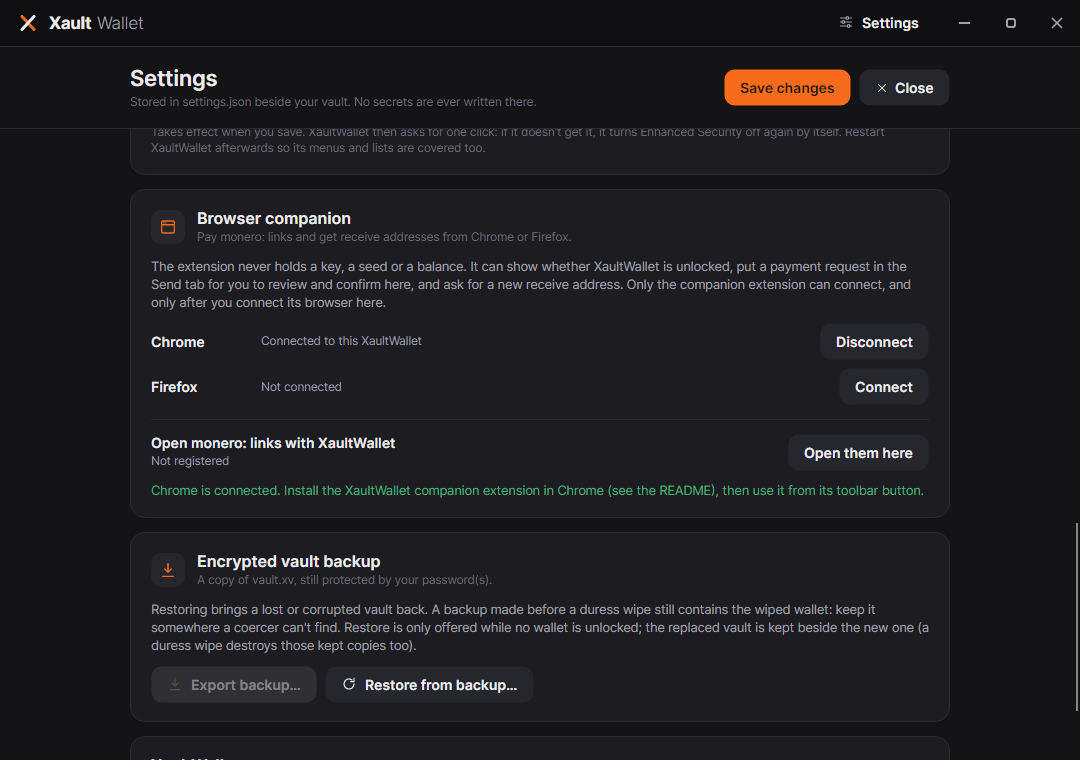
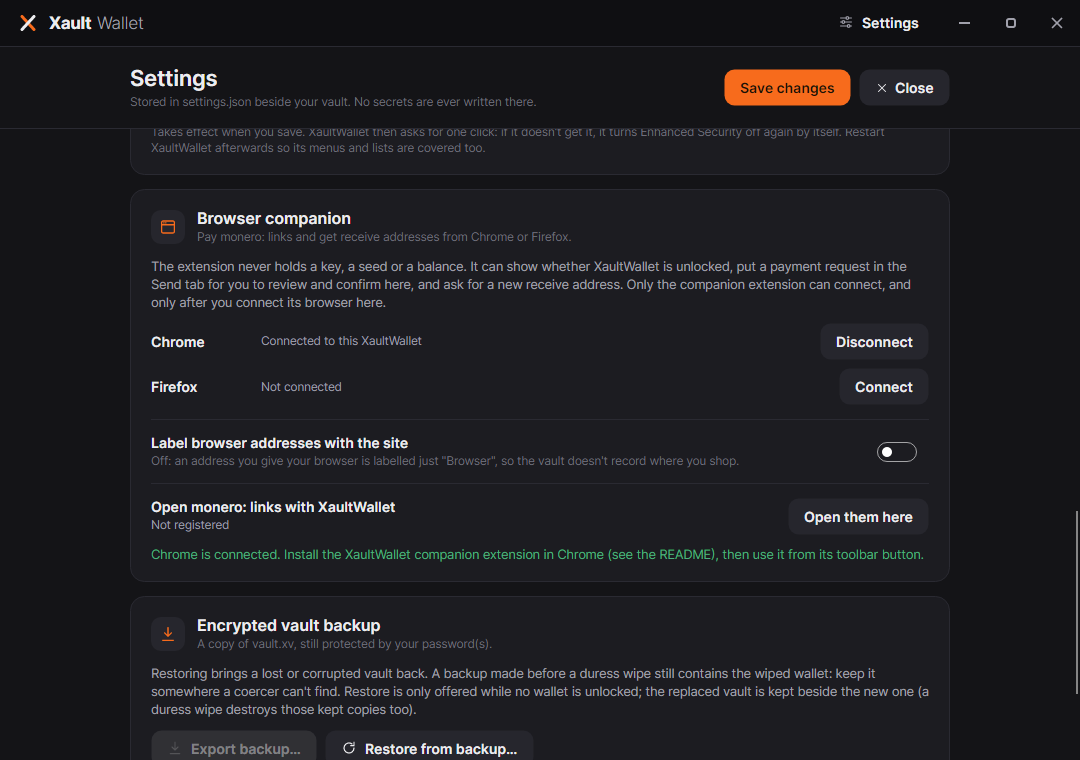
Companion: a receive request brings the window forward; docs match the new flow
A browser's receive request now waits for Give address in the app, so the app comes
forward when it asks (as for a payment request) instead of leaving the button behind
the browser. With Enhanced Security on, other programs can't press it, but the user's
own keyboard, mouse, touchscreen and pen still can: the docs and comments said "only a
real click", which was less than the truth.

README step 4 describes the two-step flow with a screenshot of the ask; the Browser
companion settings screenshot shows the new toggle.

diff --git a/src/XaultWallet.Desktop/ViewModels/MainWindowViewModel.cs b/src/XaultWallet.Desktop/ViewModels/MainWindowViewModel.cs
@@ -422,8 +422,8 @@ public sealed partial class MainWindowViewModel : ViewModelBase
 
     public bool HasReceiveAsk => ReceiveAskNote.Length > 0;
 
-    /// <summary>The user allows the waiting request (with Enhanced Security on, only a real click can): the
-    /// browser's next request from that site gets its address.</summary>
+    /// <summary>The user allows the waiting request (with Enhanced Security on, only the user's own input can,
+    /// not another program's): the browser's next request from that site gets its address.</summary>
     [RelayCommand]
     private void AllowReceiveRequest()
     {
@@ -444,8 +444,8 @@ public sealed partial class MainWindowViewModel : ViewModelBase
     // ------------------------------------------------------------------ a request held behind "Open it"
 
     /// <summary>A payment request that would have replaced what the user is doing in the Send tab (a form
-    /// they filled, a payment to check): it waits until the user opens it (with Enhanced Security on, only a
-    /// real click can) or dismisses it, for the wallet it came for.</summary>
+    /// they filled, a payment to check): it waits until the user opens it (with Enhanced Security on, only the
+    /// user's own input can, not another program's) or dismisses it, for the wallet it came for.</summary>
     private OutsidePayment? _heldPayment;
 
     private WalletViewModel? _heldWallet;

diff --git a/tools/UiSnapshots/CompanionShots.cs b/tools/UiSnapshots/CompanionShots.cs
@@ -71,6 +71,14 @@ internal static partial class Program
                                    "Open it to put it in the Send form in place of that.";
     }
 
+    /// <summary>A browser asked for a new receive address: the app says which site and waits for Give address.</summary>
+    private static void ShowReceiveAsk(Window w)
+    {
+        SelectTab(w, 0);
+        Shell(w).ReceiveAskNote = "Your browser asks for a new receive address for shop.example. " +
+                                  "Give it one, then ask again in the browser within two minutes. It will be labelled just \"Browser\".";
+    }
+
     private static void ShowEnhancedConfirm(Window w)
     {
         Shell(w).ConfirmingEnhancedSecurity = true;

diff --git a/src/XaultWallet.Core/Companion/CompanionReceiveGate.cs b/src/XaultWallet.Core/Companion/CompanionReceiveGate.cs
@@ -3,7 +3,7 @@ namespace XaultWallet.Core.Companion;
 /// <summary>
 /// A browser's "receive" makes a new subaddress and records it in the vault, so it waits for the user:
 /// the first request only asks (the app shows "Give address"); once the user allows it in the app (with
-/// Enhanced Security on, only a real click can), the next request from the same site, for the same wallet,
+/// Enhanced Security on, only the user's own input can, not another program's), the next request from the same site, for the same wallet,
 /// within <see cref="Lifetime"/>, gets its address. One allowance, one address. Not thread-safe: the app
 /// uses it on the UI thread.
 /// </summary>

diff --git a/src/XaultWallet.Desktop/Companion/CompanionHandler.cs b/src/XaultWallet.Desktop/Companion/CompanionHandler.cs
@@ -92,6 +92,11 @@ internal sealed class CompanionHandler
                 }
 
                 CompanionAddress result = await _shell.AddressForCompanionAsync(r.Label, r.Origin);
+                if (result.Error?.Code == CompanionErrors.Busy)
+                {
+                    BringToFront(); // it waits for the user in the app (Give address, or the wallet to be opened)
+                }
+
                 return result.Address is { } address
                     ? CompanionProtocol.Ok(r.Id, w =>
                     {

diff --git a/tools/UiSnapshots/Program.cs b/tools/UiSnapshots/Program.cs
@@ -107,6 +107,7 @@ internal static partial class Program
             ("wallet-send-confirm-request", WalletConfirmRequest, w => SelectTab(w, 1)),
             ("wallet-notice-tripwire", Wallet, ShowTripwire),
             ("wallet-request-held", WalletSend, ShowHeldRequest),
+            ("wallet-receive-ask", Wallet, ShowReceiveAsk),
         };
 
         foreach ((string name, Func<ViewModelBase> screen, Action<Window>? arrange) in shots)

diff --git a/SECURITY.md b/SECURITY.md
@@ -355,9 +355,9 @@ anything that changes how text reads (line breaks, right-to-left overrides, invi
 shown in quotes after where the request came from. A request never replaces a payment being confirmed,
 and one that would replace a form you filled, or a payment that may have gone out and needs checking,
 waits behind *Open it* instead. *Review* and *Send now* ignore clicks for a moment after a request
-lands or the confirmation appears. A new receive address is made only after you click *Give address*
-in the app for that site (a request just asks; with Enhanced Security on, only a real click counts),
-so a program on the channel can't quietly add subaddresses to your vault; it is announced across the
+lands or the confirmation appears. A new receive address is made only after you press *Give address*
+in the app for that site (a request just asks; with Enhanced Security on, only your own keyboard,
+mouse, touchscreen or pen can press it, not another program), so a program on the channel can't quietly add subaddresses to your vault; it is announced across the
 top of the window with its start and end, and only while the wallet is on screen. It is labelled just
 *Browser* unless you turn on *Label browser addresses with the site* (Settings): off, the vault
 doesn't record which sites you gave addresses to. While the app is locked, the lock

diff --git a/README.md b/README.md
@@ -437,9 +437,13 @@ the time left.
 
    <img src="docs/screenshots/extension-popup-page.png" alt="The popup on a checkout page: the payments found there, with the page's own words in quotes" width="280" />
 
-4. **New address** gives you a fresh subaddress of the wallet on screen, labelled *Browser:* and the
-   site, to paste into a form. The app shows the start and end of the same address across the top of
-   its window.
+4. **New address** asks for a fresh subaddress of the wallet on screen, to paste into a form. The
+   first press only asks: XaultWallet comes forward and shows which site wants one, with **Give
+   address**. Press that, then **New address** again in the browser within two minutes. The address is
+   labelled just *Browser* (with the site only if you turn on *Label browser addresses with the site*
+   in Settings), and the app shows the start and end of the same address across the top of its window.
+
+   <img src="docs/screenshots/wallet-receive-ask.png" alt="XaultWallet asking whether to give the browser a receive address, naming the site" width="60%" />
 5. Optional: **Open them here** next to *monero: links* makes any browser hand those links to
    XaultWallet (Windows, Linux), with or without the extension.
 

diff --git a/docs/BROWSER-COMPANION.md b/docs/BROWSER-COMPANION.md
@@ -169,8 +169,8 @@ stealing.
   overrides, invisible characters). A request never replaces a payment being confirmed; one that would
   replace a form you filled, or a payment that may have gone out, waits behind *Open it*. *Review* and
   *Send now* ignore clicks for a moment after a request lands or the confirmation appears. A new
-  receive address is made only after you click *Give address* in the app (with Enhanced Security on,
-  only a real click can), is announced across the top of the app's window with its start and end, and
+  receive address is made only after you press *Give address* in the app (with Enhanced Security on,
+  only your own keyboard, mouse, touchscreen or pen can, not another program), is announced across the top of the app's window with its start and end, and
   labelled *Browser* on the Receive tab, to compare with what the browser shows. The page a request
   came from is what the extension reports; a program on your computer can claim any page.
 - **Being repointed.** At every start, and when its window comes back to the front, XaultWallet checks
